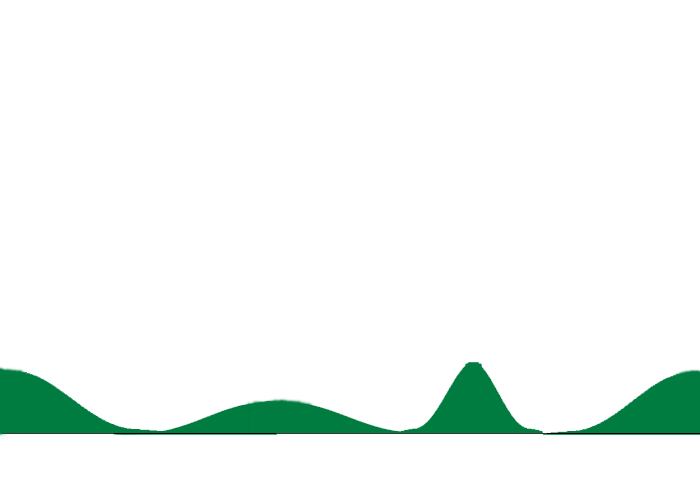
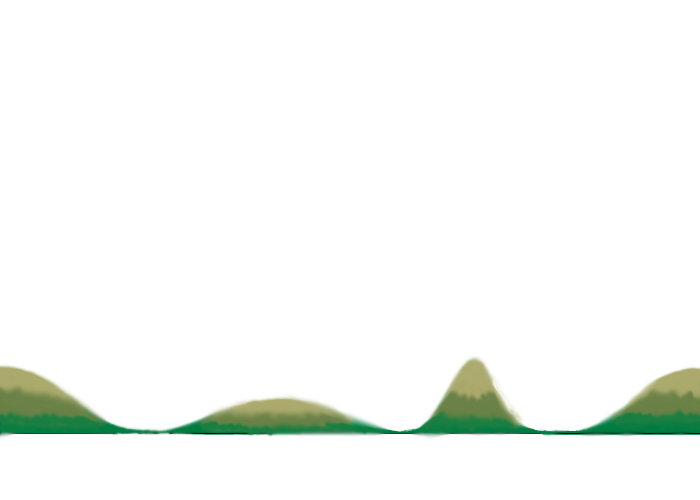
Added a new character!!!!! + background redrawn

Changed region(s): [[0.0, 0.72, 1.0, 0.9]]

diff --git a/2016SpringACEGame/src/mainPac/ImageLoader.java b/2016SpringACEGame/src/mainPac/ImageLoader.java
@@ -7,7 +7,7 @@ import java.io.InputStream;
 import javax.imageio.ImageIO;
 
 public class ImageLoader {
-	public BufferedImage bird, icon, mountains, sun, terrainpiece, terrainlayer, tori;
+	public BufferedImage bird, icon, mountains, sun, terrainpiece, terrainlayer, tori, kero;
 	
 	public ImageLoader(){
 		bird=loadImage("Pics/bird.png", bird);
@@ -17,6 +17,7 @@ public class ImageLoader {
 		terrainpiece=loadImage("Pics/terrainpiece.png", terrainpiece);
 		terrainlayer=loadImage("Pics/terrainlayer.png", terrainlayer);
 		tori=loadImage("Pics/tori.png", tori);
+		kero=loadImage("Pics/kero.png", kero);
 	}
 	
 	public BufferedImage loadImage(String fileName, BufferedImage image){

diff --git a/2016SpringACEGame/src/character/CharacterPanel.java b/2016SpringACEGame/src/character/CharacterPanel.java
@@ -10,7 +10,7 @@ import mainPac.ImageLoader;
 public class CharacterPanel extends JPanel{
 	
 	private int pWidth, pHeight;
-	public Bird bird;
+	public Bird bird; public Frog frog;
 	public int initialX=20, initialY=35;
 	
 	public CharacterPanel(int width, int height, ImageLoader il){
@@ -18,10 +18,12 @@ public class CharacterPanel extends JPanel{
 		pHeight=height;
 		this.setOpaque(false);
 		bird= new Bird(initialX, initialY, il, this);
+		frog= new Frog(40, 35, il, this);
 	}
 	
 	public void paintComponent(Graphics g){
-		bird.drawCharacter(g); 
+		bird.drawCharacter(g);
+		frog.drawCharacter(g);
 	}
 
 

diff --git a/2016SpringACEGame/src/character/Frog.java b/2016SpringACEGame/src/character/Frog.java
@@ -1,0 +1,14 @@
+package character;
+
+import mainPac.ImageLoader;
+
+public class Frog extends Character{
+	public Frog(int initialmapX, int initialmapY, ImageLoader il, CharacterPanel cp){
+		super(initialmapX, initialmapY, il, cp);
+		myImage = il.kero;
+		characterName = "Kero";
+		numOfWalkingStatus=3; //0, 1, 2
+		individualWidth=45; 
+		individualHeight=45;
+	}
+}
